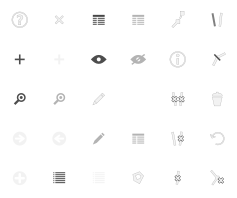
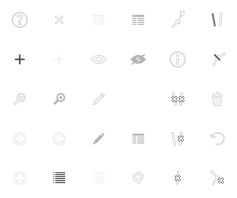
Add dedicated action and panel for editing datalayers

Changed region(s): [[0.384, 0.0606, 0.443, 0.1515], [0.0591, 0.4545, 0.1181, 0.5455], [0.384, 0.2727, 0.443, 0.3333]]

diff --git a/src/js/leaflet.storage.controls.js b/src/js/leaflet.storage.controls.js
@@ -54,6 +54,19 @@ L.Storage.ChangeTileLayerAction = L.Storage.BaseAction.extend({
 
 });
 
+L.Storage.ManageDatalayersAction = L.Storage.BaseAction.extend({
+
+    options: {
+        className: 'dark manage-datalayers',
+        tooltip: L._('Manage layers')
+    },
+
+    addHooks: function () {
+        this.map.manageDatalayers();
+    }
+
+});
+
 L.Storage.UpdateExtentAction = L.Storage.BaseAction.extend({
 
     options: {
@@ -416,11 +429,8 @@ L.Storage.MoreControls = L.Control.extend({
         var pos = this.getPosition(),
             corner = this._map._controlCorners[pos],
             className = 'storage-more-controls';
-        if (L.DomUtil.hasClass(corner, className)) {
-            L.DomUtil.removeClass(corner, className);
-        } else {
-            L.DomUtil.addClass(corner, className);
-        }
+        if (L.DomUtil.hasClass(corner, className)) L.DomUtil.removeClass(corner, className);
+        else L.DomUtil.addClass(corner, className);
     }
 
 });
@@ -438,6 +448,11 @@ L.Storage.DataLayersControl = L.Control.extend({
         editLayer: L._('Edit')
     },
 
+    initialize: function (map, options) {
+        this.map = map;
+        L.Control.prototype.initialize.call(this, options);
+    },
+
     onAdd: function (map) {
         var container = L.DomUtil.create('div', 'leaflet-control-browse storage-control'),
             actions = L.DomUtil.create('div', 'storage-browse-actions', container);
@@ -446,10 +461,6 @@ L.Storage.DataLayersControl = L.Control.extend({
         var link = L.DomUtil.create('a', 'storage-browse-link', actions);
         link.href = '#';
         link.title = link.innerHTML = L._('Browse data');
-
-        var add = L.DomUtil.create('a', 'show-on-edit block add-datalayer', actions);
-        add.href = '#';
-        add.innerHTML = add.title = L._('Add a layer');
 
         var toggle = L.DomUtil.create('a', 'storage-browse-toggle', container);
         toggle.href = '#';
@@ -460,10 +471,6 @@ L.Storage.DataLayersControl = L.Control.extend({
         L.DomEvent
             .on(link, 'click', L.DomEvent.stop)
             .on(link, 'click', map.openBrowser, map);
-
-        L.DomEvent
-            .on(add, 'click', L.DomEvent.stop)
-            .on(add, 'click', this.newDataLayer, this);
 
         map.whenReady(function () {
             this.update();
@@ -483,13 +490,13 @@ L.Storage.DataLayersControl = L.Control.extend({
         if (this._datalayers_container) {
             this._datalayers_container.innerHTML = '';
             for(var idx in this._map.datalayers) {
-                this.addDataLayer(this._map.datalayers[idx]);
+                this.addDataLayer(this._datalayers_container, this._map.datalayers[idx]);
             }
         }
     },
 
-    addDataLayer: function (datalayer) {
-        var datalayerLi = L.DomUtil.create('li', '', this._datalayers_container);
+    addDataLayer: function (container, datalayer) {
+        var datalayerLi = L.DomUtil.create('li', '', container);
         datalayer.renderToolbox(datalayerLi);
         var title = L.DomUtil.add('span', 'layer-title', datalayerLi, datalayer.options.name);
 
@@ -500,8 +507,26 @@ L.Storage.DataLayersControl = L.Control.extend({
     },
 
     newDataLayer: function () {
-        var datalayer = this._map.createDataLayer({});
+        var datalayer = this.map.createDataLayer({});
         datalayer.edit();
+    },
+
+    openPanel: function () {
+        var container = L.DomUtil.create('ul', 'storage-browse-datalayers');
+        for(var idx in this.map.datalayers) {
+            this.addDataLayer(container, this.map.datalayers[idx]);
+        }
+
+        var bar = L.DomUtil.create('div', 'button-bar', container),
+            add = L.DomUtil.create('a', 'show-on-edit block add-datalayer button', bar);
+        add.href = '#';
+        add.innerHTML = add.title = L._('Add a layer');
+
+        L.DomEvent
+            .on(add, 'click', L.DomEvent.stop)
+            .on(add, 'click', this.newDataLayer, this);
+
+        this.map.ui.openPanel({data: {html: container}, className: 'dark'});
     }
 
 });

diff --git a/src/css/storage.css b/src/css/storage.css
@@ -185,6 +185,9 @@ ul.photon-autocomplete {
 .update-map-tilelayers {
     background-position: -80px 0;
 }
+.manage-datalayers {
+    background-position: -40px -80px;
+}
 .storage-toolbar .update-map-permissions,
 .update-map-permissions {
     background-position: -40px -40px;
@@ -539,7 +542,7 @@ ul.photon-autocomplete {
 .leaflet-inplace-toolbar a,
 .storage-browse-features i,
 .storage-caption i,
-.leaflet-control-browse .storage-browse-datalayers i {
+.storage-browse-datalayers i {
     background-repeat: no-repeat;
     background-image: url("../../src/img/16.png");
     display: inline;
@@ -548,6 +551,9 @@ ul.photon-autocomplete {
     height: 24px;
     line-height: 24px;
     vertical-align: middle;
+}
+.dark .storage-browse-datalayers i {
+    background-image: url("../../src/img/16-white.png");
 }
 .leaflet-inplace-toolbar a {
     background-image: url("../../src/img/16-white.png");
@@ -575,7 +581,7 @@ ul.photon-autocomplete {
     background-position: -10px -91px;
 }
 .layer-table-edit {
-    background-position: -90px -9px;
+    background-position: -90px -10px;
 }
 .feature-edit,
 .layer-edit {
@@ -636,7 +642,6 @@ ul.photon-autocomplete {
 .leaflet-control-browse:hover .storage-browse-actions {
     display: block;
 }
-.leaflet-control-browse a.add-datalayer,
 .leaflet-control-browse a.storage-browse-link {
     background-image: none;
     background-color: rgb(68, 68, 68);
@@ -651,7 +656,7 @@ ul.photon-autocomplete {
     width: 100%;
     border-radius: 2px;
 }
-.leaflet-control-browse a.add-datalayer:before,
+a.add-datalayer:before,
 .leaflet-control-browse a.storage-browse-link:before {
     background-image: url("../img/16.png");
     background-repeat: no-repeat;
@@ -662,10 +667,10 @@ ul.photon-autocomplete {
     display: block;
     float: left;
 }
-.leaflet-control-browse a.add-datalayer:before {
-    background-position: -52px -49px;
+a.add-datalayer:before {
+    background-position: -45px -45px;
 }
-.leaflet-control-browse a.add-datalayer:hover,
+a.add-datalayer:hover,
 .leaflet-control-browse a.storage-browse-link:hover {
     background-color: rgb(99, 99, 99);
 }

diff --git a/src/js/leaflet.storage.js b/src/js/leaflet.storage.js
@@ -6,7 +6,6 @@ L.Map.mergeOptions({
     zoom: 6,
     hash: true,
     embedControl: true,
-    datalayersControl: true,
     default_color: 'DarkBlue',
     default_smoothFactor: 1.0,
     default_opacity: 0.5,
@@ -237,13 +236,14 @@ L.Storage.Map.include({
                 L.S.ImportAction,
                 L.S.EditPropertiesAction,
                 L.S.ChangeTileLayerAction,
+                L.S.ManageDatalayersAction,
                 L.S.UpdateExtentAction
             ];
             if (this.options.urls.map_update_permissions) editActions.push(L.Storage.UpdatePermsAction);
             new L.S.SettingsToolbar({actions: editActions}).addTo(this);
         }
         this._controls.zoom = new L.Control.Zoom({zoomInTitle: L._('Zoom in'), zoomOutTitle: L._('Zoom out')});
-        this._controls.datalayers = new L.Storage.DataLayersControl();
+        this._controls.datalayers = new L.Storage.DataLayersControl(this);
         this._controls.home = new L.S.HomeControl();
         this._controls.locate = new L.S.LocateControl();
         this._controls.fullscreen = new L.Control.Fullscreen({title: {'false': L._('View Fullscreen'), 'true': L._('Exit Fullscreen')}});
@@ -545,6 +545,10 @@ L.Storage.Map.include({
                 self.isDirty = true;
             };
         if (this._controls.tilelayers) this._controls.tilelayers.openSwitcher({callback: callback, className: 'dark'});
+    },
+
+    manageDatalayers: function () {
+        if (this._controls.datalayers) this._controls.datalayers.openPanel();
     },
 
     renderShareBox: function () {
@@ -946,9 +950,7 @@ L.Storage.Map.include({
 
     editableOptions: [
         'zoom',
-        'datalayersControl',
         'scrollWheelZoom',
-        'zoomControl',
         'scaleControl',
         'moreControl',
         'miniMap',

diff --git a/test/DataLayer.js b/test/DataLayer.js
@@ -39,7 +39,7 @@ describe('L.DataLayer', function () {
         });
 
         it('should exist only one datalayer', function () {
-            assert.equal(document.querySelectorAll('.leaflet-control-browse i.layer-toggle').length, 1);
+            assert.equal(qsa('.leaflet-control-browse i.layer-toggle').length, 1);
         });
 
         it('should build a form on edit button click', function () {
@@ -112,12 +112,17 @@ describe('L.DataLayer', function () {
     });
 
     describe('#save() new', function () {
-        var newLayerButton, form, input, newDatalayer, editButton;
+        var newLayerButton, form, input, newDatalayer, editButton, manageButton;
 
+        it('should have a manage datalayers action', function () {
+            enableEdit();
+            manageButton = qs('.manage-datalayers');
+            assert.ok(manageButton);
+            happen.click(manageButton);
+        });
 
         it('should have a new layer button', function () {
-            enableEdit();
-            newLayerButton = qs('.leaflet-control-browse .add-datalayer');
+            newLayerButton = qs('#storage-ui-container .add-datalayer');
             assert.ok(newLayerButton);
         });
 

diff --git a/test/Feature.js b/test/Feature.js
@@ -151,7 +151,8 @@ describe('L.Storage.FeatureMixin', function () {
 
         it('should change style on datalayer select change', function () {
             enableEdit();
-            happen.click(qs('.leaflet-control-browse .add-datalayer'));
+            happen.click(qs('.manage-datalayers'));
+            happen.click(qs('#storage-ui-container .add-datalayer'));
             changeInputValue(qs('form.storage-form input[name="name"]'), 'New layer');
             changeInputValue(qs('form#datalayer-advanced-properties input[name=color]'), 'MediumAquaMarine');
             happen.click(qs('path[fill="DarkBlue"]'));

diff --git a/contrib/css/storage.ui.default.css b/contrib/css/storage.ui.default.css
@@ -200,6 +200,9 @@ input.switch:checked ~ label:before {
 input.switch:checked ~ label:after {
     margin-left: 3em;
 }
+.button-bar {
+    margin-top: 5px;
+}
 .storage-multiplechoice input[type='radio'] {
     display: none;
 }
